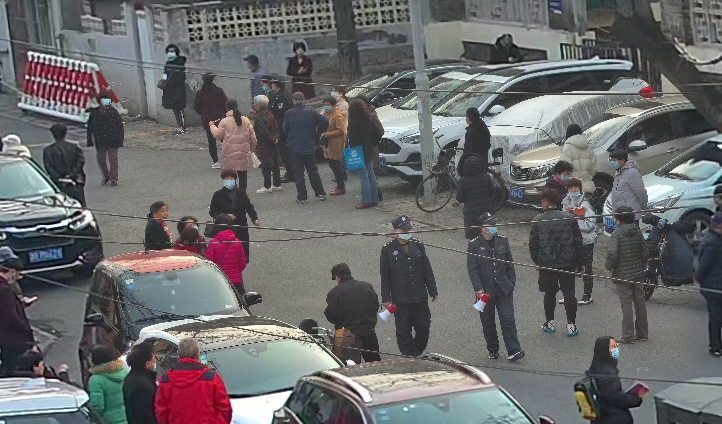
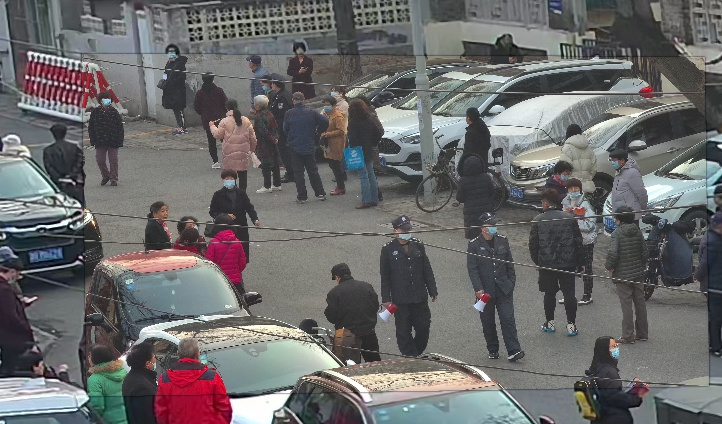
Unify feathering in ROI comparisons

diff --git a/src/three_region_stitch/cli.py b/src/three_region_stitch/cli.py
@@ -15,7 +15,12 @@ from image_stitch import load_homography
 from .flow import RAFTFlow, align_static_region
 from .geometry import estimate_motion_homography
 from .motion import MotionConfig, detect_motion
-from .regions import compose_three_regions, compose_with_global_sr, prepare_regions
+from .regions import (
+    compose_three_regions,
+    compose_with_global_sr,
+    feather_sources,
+    prepare_regions,
+)
 from .super_resolution import FSRCNNX4, sharpen_for_display
 from .visualization import region_overlay, same_crop_images, tint
 
@@ -47,17 +52,32 @@ def _last_video_frame(path: Path) -> np.ndarray:
     return frame
 
 
-def _pure_on_global_canvas(path: Path, shape: tuple[int, int, int]) -> np.ndarray:
-    pure = _read_image(path)
-    if pure.shape == shape:
-        return pure
+def _pure_on_global_canvas(
+    path: Path,
+    local_frame: np.ndarray,
+    global_frame: np.ndarray,
+    feather_radius: int,
+) -> np.ndarray:
     metadata_path = path.parent / "pure_artifacts" / "metadata.json"
     if not metadata_path.is_file():
-        raise ValueError(f"Pure result has another canvas size; metadata missing: {metadata_path}")
+        raise ValueError(f"Cannot apply shared comparison feathering; metadata missing: {metadata_path}")
     metadata = json.loads(metadata_path.read_text(encoding="utf-8"))
+    source_to_canvas = np.asarray(metadata["source_to_canvas"], dtype=np.float64)
     destination_to_canvas = np.asarray(metadata["destination_to_canvas"], dtype=np.float64)
-    return cv.warpPerspective(
-        pure, np.linalg.inv(destination_to_canvas), (shape[1], shape[0]),
+    source_to_global = np.linalg.inv(destination_to_canvas) @ source_to_canvas
+    height, width = global_frame.shape[:2]
+    warped_local = cv.warpPerspective(local_frame, source_to_global, (width, height))
+    local_valid = cv.warpPerspective(
+        np.full(local_frame.shape[:2], 255, dtype=np.uint8),
+        source_to_global,
+        (width, height),
+        flags=cv.INTER_NEAREST,
+    )
+    global_region = cv.bitwise_not(local_valid)
+    return feather_sources(
+        (global_frame, warped_local),
+        (global_region, local_valid),
+        feather_radius,
     )
 
 
@@ -70,7 +90,10 @@ def build_parser() -> argparse.ArgumentParser:
     parser.add_argument("--flow-mode", choices=("cached", "raft"), default="cached")
     parser.add_argument("--recompute-all", action="store_true", help="recompute masks, point-line H, and RAFT")
     parser.add_argument("--one-sided-to-raft", action=argparse.BooleanOptionalAction, default=True)
-    parser.add_argument("--feather-radius", type=int, default=2)
+    parser.add_argument(
+        "--feather-radius", type=int, default=2,
+        help="shared Gaussian feather radius for three-region and pure-stitch comparison images",
+    )
     parser.add_argument(
         "--sr-mode", choices=("global-fsrcnn", "none"), default="global-fsrcnn",
         help="super-resolve the Global background with FSRCNN x4 (default) or skip it",
@@ -206,7 +229,9 @@ def main(argv=None) -> int:
     pure_path = args.pure_output or example / "output" / "pure_stitch.jpg"
     comparison_paths = None
     if pure_path.is_file():
-        pure = _pure_on_global_canvas(pure_path, global_frame.shape)
+        pure = _pure_on_global_canvas(
+            pure_path, local, global_frame, args.feather_radius,
+        )
         pure_focus, three_region_focus = same_crop_images(pure, composed.image, roi)
         pure_focus_path = output / "pure_stitch_focus.jpg"
         three_region_focus_path = output / "three_region_focus.jpg"

diff --git a/src/three_region_stitch/regions.py b/src/three_region_stitch/regions.py
@@ -80,6 +80,36 @@ def prepare_regions(
     )
 
 
+def feather_sources(
+    sources: tuple[np.ndarray, ...],
+    masks: tuple[np.ndarray, ...],
+    radius: int,
+) -> np.ndarray:
+    if not sources or len(sources) != len(masks):
+        raise ValueError("Each feathered source must have a corresponding ownership mask")
+    if any(source.shape != sources[0].shape for source in sources):
+        raise ValueError("Feathered sources must have the same canvas shape")
+    if any(mask.shape != sources[0].shape[:2] for mask in masks):
+        raise ValueError("Feathering masks must match the source canvas")
+    if radius <= 0:
+        result = sources[0].copy()
+        for source, mask in zip(sources[1:], masks[1:]):
+            result[mask > 0] = source[mask > 0]
+        return result
+    kernel = 2 * radius + 1
+    weights = [
+        cv.GaussianBlur((mask > 0).astype(np.float32), (kernel, kernel),
+                        sigmaX=max(radius / 2, 1))
+        for mask in masks
+    ]
+    denominator = np.maximum(sum(weights), 1e-6)
+    blended = sum(
+        source.astype(np.float32) * (weight / denominator)[..., None]
+        for source, weight in zip(sources, weights)
+    )
+    return np.clip(blended, 0, 255).astype(np.uint8)
+
+
 def _feather_three_sources(
     global_frame: np.ndarray,
     raft_warped: np.ndarray,
@@ -87,24 +117,11 @@ def _feather_three_sources(
     masks: RegionMasks,
     radius: int,
 ) -> np.ndarray:
-    if radius <= 0:
-        result = global_frame.copy()
-        result[masks.raft_region > 0] = raft_warped[masks.raft_region > 0]
-        result[masks.homography_region > 0] = homography_warped[masks.homography_region > 0]
-        return result
-    kernel = 2 * radius + 1
-    weights = [
-        cv.GaussianBlur((mask > 0).astype(np.float32), (kernel, kernel),
-                        sigmaX=max(radius / 2, 1))
-        for mask in (masks.global_region, masks.raft_region, masks.homography_region)
-    ]
-    denominator = np.maximum(weights[0] + weights[1] + weights[2], 1e-6)
-    sources = (global_frame, raft_warped, homography_warped)
-    blended = sum(
-        source.astype(np.float32) * (weight / denominator)[..., None]
-        for source, weight in zip(sources, weights)
+    return feather_sources(
+        (global_frame, raft_warped, homography_warped),
+        (masks.global_region, masks.raft_region, masks.homography_region),
+        radius,
     )
-    return np.clip(blended, 0, 255).astype(np.uint8)
 
 
 def compose_three_regions(
